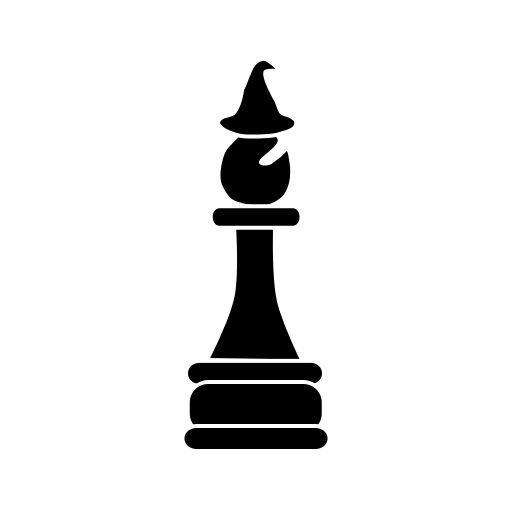
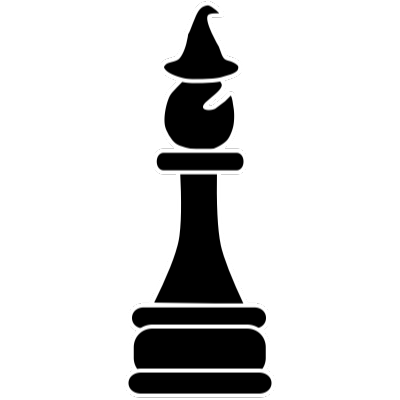
added move indicator to legionary

Changed region(s): [[0.3, 0.69, 0.69, 1.0], [0.39, 0.0, 0.63, 0.66], [0.42, 0.6, 0.45, 0.66]]

diff --git a/code/chessBoard.py b/code/chessBoard.py
@@ -1,54 +1,65 @@
 from settings import *
 from enum import Enum
 from textSprite import TextSprite
-from piece import Piece
+from piece import *
 
 class Square():
-    def __init__(self, rect):
+    def __init__(self, rect, coordinate):
         self.rect = rect # represents the area of the square
+        self.coord = coordinate
         self.piece = None # whether and which piece is on that square
 
 class ChessBoard(pygame.sprite.Sprite):
-    def __init__(self, surf, pos, width):
+    def __init__(self, surf):
         super().__init__()
-        self.image = pygame.transform.smoothscale(surf, (width, width))
-        self.rect = self.image.get_frect(center=pos)
-        self.width = width
-        self.tile_width = self.width / 8
+        self.image = pygame.transform.smoothscale(surf, (BOARD_SIZE, BOARD_SIZE))
+        self.rect = self.image.get_frect(center=(WINDOW_WIDTH / 2, WINDOW_HEIGHT / 2))
+        self.squares = [[], [], [], [], [], [], [], []] # creates a 2d list of Square objects
         self.gen_squares()
         self.setup_pieces()
-        self.selected_square = pygame.transform.smoothscale(square_surf, (self.tile_width, self.tile_width))
+        self.selected_square = pygame.transform.smoothscale(BOARD_SURFS['select'], (TILE_WIDTH, TILE_WIDTH))
+        self.move_indicator = pygame.transform.smoothscale(BOARD_SURFS['move_indicator'], (TILE_WIDTH, TILE_WIDTH))
 
     # creates a 2d list of rects representing the individual squares on the board
     def gen_squares(self):
-        self.squares = [[], [], [], [], [], [], [], []] # creates a 2d list of Square objects
         pos_x, pos_y = self.rect.topleft # starting the rows and columns from the top left
 
         for row in range(8):
             for col in range(8): 
-                square_rect = pygame.Rect(pos_x + (col * self.tile_width), pos_y, self.tile_width, self.tile_width) # creates a rect that specifies the area of a square
-                self.squares[row].append(Square(square_rect)) # it appends the whole area of a square and gives that square a piece
-            pos_y += self.tile_width # shifts to the next row
+                square_rect = pygame.Rect(pos_x + (col * TILE_WIDTH), pos_y, TILE_WIDTH, TILE_WIDTH) # creates a rect that specifies the area of a square
+                self.squares[row].append(Square(square_rect, (row,col))) # it appends the whole area of a square and gives that square a piece
+            pos_y += TILE_WIDTH # shifts to the next row
 
     def setup_pieces(self):
         for col in range(8):
-            self.squares[6][col].piece = Piece(WHITE_SURFS['legionary'], self.tile_width)
+            self.place_piece((6, col), Legionary(WHITE_SURFS['legionary'], 'white'))
         for col in range(8):
-            self.squares[1][col].piece = Piece(BLACK_SURFS['legionary'], self.tile_width)
+            self.place_piece((1, col), Legionary(BLACK_SURFS['legionary'], 'black'))
 
-        self.squares[7][2].piece = Piece(WHITE_SURFS['wizard'], self.tile_width)
-        self.squares[7][5].piece = Piece(WHITE_SURFS['wizard'], self.tile_width)
-        self.squares[0][2].piece = Piece(BLACK_SURFS['wizard'], self.tile_width)
-        self.squares[0][5].piece = Piece(BLACK_SURFS['wizard'], self.tile_width)
+        self.place_piece((7, 5), Piece(WHITE_SURFS['wizard'], 'white'))
+        self.place_piece((7, 2), Piece(WHITE_SURFS['wizard'], 'white'))
+        self.place_piece((0, 5), Piece(BLACK_SURFS['wizard'], 'black'))
+        self.place_piece((0, 2), Piece(BLACK_SURFS['wizard'], 'black'))
 
-        self.squares[7][0].piece = Piece(WHITE_SURFS['catapult'], self.tile_width)
-        self.squares[7][7].piece = Piece(WHITE_SURFS['catapult'], self.tile_width)
-        self.squares[0][0].piece = Piece(BLACK_SURFS['catapult'], self.tile_width)
-        self.squares[0][7].piece = Piece(BLACK_SURFS['catapult'], self.tile_width)
+        self.place_piece((7, 0), Piece(WHITE_SURFS['catapult'], 'white'))
+        self.place_piece((7, 7), Piece(WHITE_SURFS['catapult'], 'white'))
+        self.place_piece((0, 0), Piece(BLACK_SURFS['catapult'], 'black'))
+        self.place_piece((0, 7), Piece(BLACK_SURFS['catapult'], 'black'))
 
-        self.squares[7][4].piece = Piece(WHITE_SURFS['emperor'], self.tile_width)
-        self.squares[0][4].piece = Piece(BLACK_SURFS['emperor'], self.tile_width)
+        self.place_piece((7, 4), Piece(WHITE_SURFS['emperor'], 'white'))
+        self.place_piece((0, 4), Piece(BLACK_SURFS['emperor'], 'black'))
 
+        self.place_piece((7, 3), Piece(WHITE_SURFS['archer'], 'white'))
+        self.place_piece((0, 3), Piece(BLACK_SURFS['archer'], 'black'))
+
+        self.place_piece((7, 6), Piece(WHITE_SURFS['dragon'], 'white'))
+        self.place_piece((7, 1), Piece(WHITE_SURFS['dragon'], 'white'))
+        self.place_piece((0, 6), Piece(BLACK_SURFS['dragon'], 'black'))
+        self.place_piece((0, 1), Piece(BLACK_SURFS['dragon'], 'black'))
+
+    def place_piece(self, pos, piece):
+        self.squares[pos[0]][pos[1]].piece = piece
+        
     def test_coordinates(self):
         for row in range(8):
             for col in range(8):
@@ -64,5 +75,11 @@ class ChessBoard(pygame.sprite.Sprite):
                 if square.piece != None:
                     if square.piece.is_selected == True:
                         pygame.display.get_surface().blit(self.selected_square, square.rect)
+                        # calculate possible moves
+                        possible_moves = square.piece.possible_moves(square.coord)
+                        # draw the indicator
+                        for move in possible_moves:
+                            move_square = self.squares[move[0]][move[1]]
+                            pygame.display.get_surface().blit(self.move_indicator, move_square.rect)
                     pygame.display.get_surface().blit(square.piece.image, square.rect)
                 

diff --git a/code/piece.py b/code/piece.py
@@ -1,7 +1,23 @@
 from settings import *
 
 class Piece(pygame.sprite.Sprite):
-    def __init__(self, surf, size):
+    def __init__(self, surf, color):
         super().__init__()
-        self.image = pygame.transform.smoothscale(surf, (size, size))
+        self.image = pygame.transform.smoothscale(surf, (TILE_WIDTH, TILE_WIDTH))
         self.is_selected = False
+        self.color = color
+    
+
+
+class Legionary(Piece):
+    def __init(self, surf, color):
+        super().__init__(surf, color)
+
+    def possible_moves(self, coordinate):
+        row, col = coordinate # extracts row and col from the coordinate
+        if self.color == 'white':
+            return [(row-1, col)] # returns the position in front of the legionary
+        else:
+            return [(row+1, col)]
+    
+

diff --git a/code/settings.py b/code/settings.py
@@ -6,8 +6,9 @@ from support import folder_importer
 pygame.init()
 screen = pygame.display.set_mode((0, 0), pygame.FULLSCREEN)
 WINDOW_WIDTH, WINDOW_HEIGHT = screen.get_size()
+BOARD_SIZE = WINDOW_HEIGHT - 100
+TILE_WIDTH = BOARD_SIZE / 8
 
 WHITE_SURFS = folder_importer('assets', 'images', 'white_pieces')
 BLACK_SURFS = folder_importer('assets', 'images', 'black_pieces')
-board_surf = pygame.image.load(join('assets', 'images', 'chess_board.jpg')).convert_alpha()
-square_surf = pygame.image.load(join('assets', 'images', 'yellow_square.png')).convert_alpha()
+BOARD_SURFS = folder_importer('assets', 'images', 'board')

diff --git a/code/main.py b/code/main.py
@@ -7,7 +7,7 @@ from chessBoard import ChessBoard
 class Chess2026():
     def __init__(self):
         self.running = True
-        self.board = ChessBoard(board_surf, (WINDOW_WIDTH / 2, WINDOW_HEIGHT / 2), WINDOW_WIDTH / 3)
+        self.board = ChessBoard(BOARD_SURFS['chess_board'])
         
 
     def run(self):
